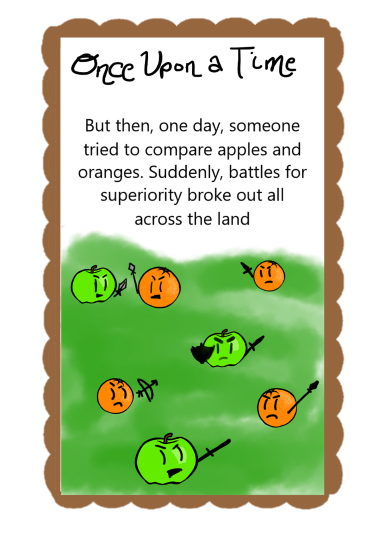
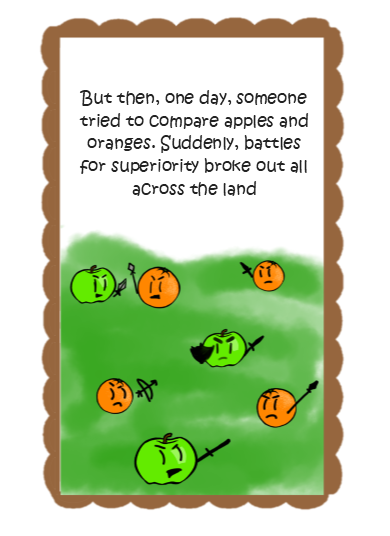
update bakcstory and flavor text

diff --git a/src/backend/comparers/left_context_comparer.ts b/src/backend/comparers/left_context_comparer.ts
@@ -26,17 +26,17 @@ export class leftContextComparer extends AbstractComparer {
 
     if (winner.datamuseLeftContext.length > 0) {
       for (var i = 0; i < winner.datamuseLeftContext.length; i++) {
-        if (winner.datamuseLeftContext[i].score >= 15000 && winner.datamuseLeftContext[i].tags.indexOf("n") !=-1) {
+        if (winner.datamuseLeftContext[i].score >= 15000 && winner.datamuseLeftContext[i].tags.length != 0 && winner.datamuseLeftContext[i].tags.indexOf("n") !=-1) {
           var combined = `${winner.name} ${plural(winner.datamuseLeftContext[i].word)}`;
           var responses = [
             `I like ${combined}.`,
-            `${Utilities.capitalize(winner.name)}... as in `+combined+`? I like the sound of that.`,
-            `I choose ${winner.name} because I like `+combined+`.`,
-            `What could be ${winner.name}? How about... `+combined+`? Yeah, that sounds pretty good to me.`,
-            `I'll take `+combined+` any day of the week. I pick ${winner.name}!`,
-            `Doesn't "${winner.name}" just make you think of ` + combined + `?`,
-            `I can't hear "${winner.name}" without thinking "`+combined+`".`,
-          ]
+            `${Utilities.capitalize(winner.name)}... as in ${combined}? I like the sound of that.`,
+            `I choose ${winner.name} because I like ${combined}.`,
+            `What could be ${winner.name}? How about... ${combined} ? Yeah, that sounds pretty good to me.`,
+            `I'll take ${combined} any day of the week. I pick ${winner.name}!`,
+            `Doesn't ${winner.name} just make you think of ${combined}?`,
+            `I can't hear ${winner.name} without thinking ${combined}.`,
+          ];
           //Picks a response from the array of responses, so long as the response isn't the same as the last random response.
           let responseIndex = Utilities.getRandomInt(responses.length);
           while (responseIndex == this.lastResponseIndex) {

diff --git a/src/backend/comparers/quantity_comparer.ts b/src/backend/comparers/quantity_comparer.ts
@@ -15,27 +15,27 @@ export class QuantityComparer extends AbstractComparer {
     console.log(ThingOne.count);
 
     //If the user types the same 'thing' thrice.
-    if (ThingOne.count % 3 == 0){
+    if (ThingOne.count % 5 == 0){
       return (`I'm getting kind of tired of ${ThingOne.name}.`)
     }
 
-    if (ThingTwo.count % 3 == 0) {
+    if (ThingTwo.count % 5 == 0) {
       return (`I'm getting kind of tired of ${ThingTwo.name}.`)
 
     }
 
 
     //If the user types the same 'thing' five times.
-    if (ThingOne.count % 5 == 0) {
+    if (ThingOne.count % 9 == 0) {
       return (`Don't you think you've tried ${ThingOne.name} enough for now?`);
     }
-    if( ThingTwo.count % 5 == 0){
+    if( ThingTwo.count % 9 == 0){
       return (`Don't you think you've tried ${ThingTwo.name} enough for now?`);
 
     }
 
     //If the user types the same 'thing' eight times.
-    if (ThingOne.count % 8 == 0 || ThingTwo.count % 8 == 0) {
+    if (ThingOne.count % 14 == 0 || ThingTwo.count % 14 == 0) {
       return (`Seriously, be more original.`)
     }
 

diff --git a/src/backend/comparers/right_context_comparer.ts b/src/backend/comparers/right_context_comparer.ts
@@ -27,9 +27,9 @@ export class RightContextComparer extends AbstractComparer {
       if (winner.datamuseModifies[i].score >= 0) {
         var combined = `${winner.datamuseModifies[i].word} ${plural(winner.name)}`;
         var responses = [
-          `I like ${combined}`,
+          `I like ${combined}.`,
           `Doesn't ${winner.name} just make you think of ${combined}?`,
-          `I can't hear ${winner.name} without thinking ${combined}`
+          `I can't hear ${winner.name} without thinking ${combined}.`
         ];
         //Picks a response from the array of responses, so long as the response isn't the same as the last random response.
         let responseIndex = Utilities.getRandomInt(responses.length);

diff --git a/src/backend/thing.ts b/src/backend/thing.ts
@@ -118,9 +118,10 @@ export class Thing {
 
   // Iterates the count, noting that the Thing has been compared again
   iterateCount(): void {
-    if(this._name=="plzlose"||this.name=="plzwin"){
-      this._count--;
-    }
+
     this._count++;
+    if(this._name=="plzlose"||this.name=="plzwin"){
+      this._count=1;
+    }
   }
 }
